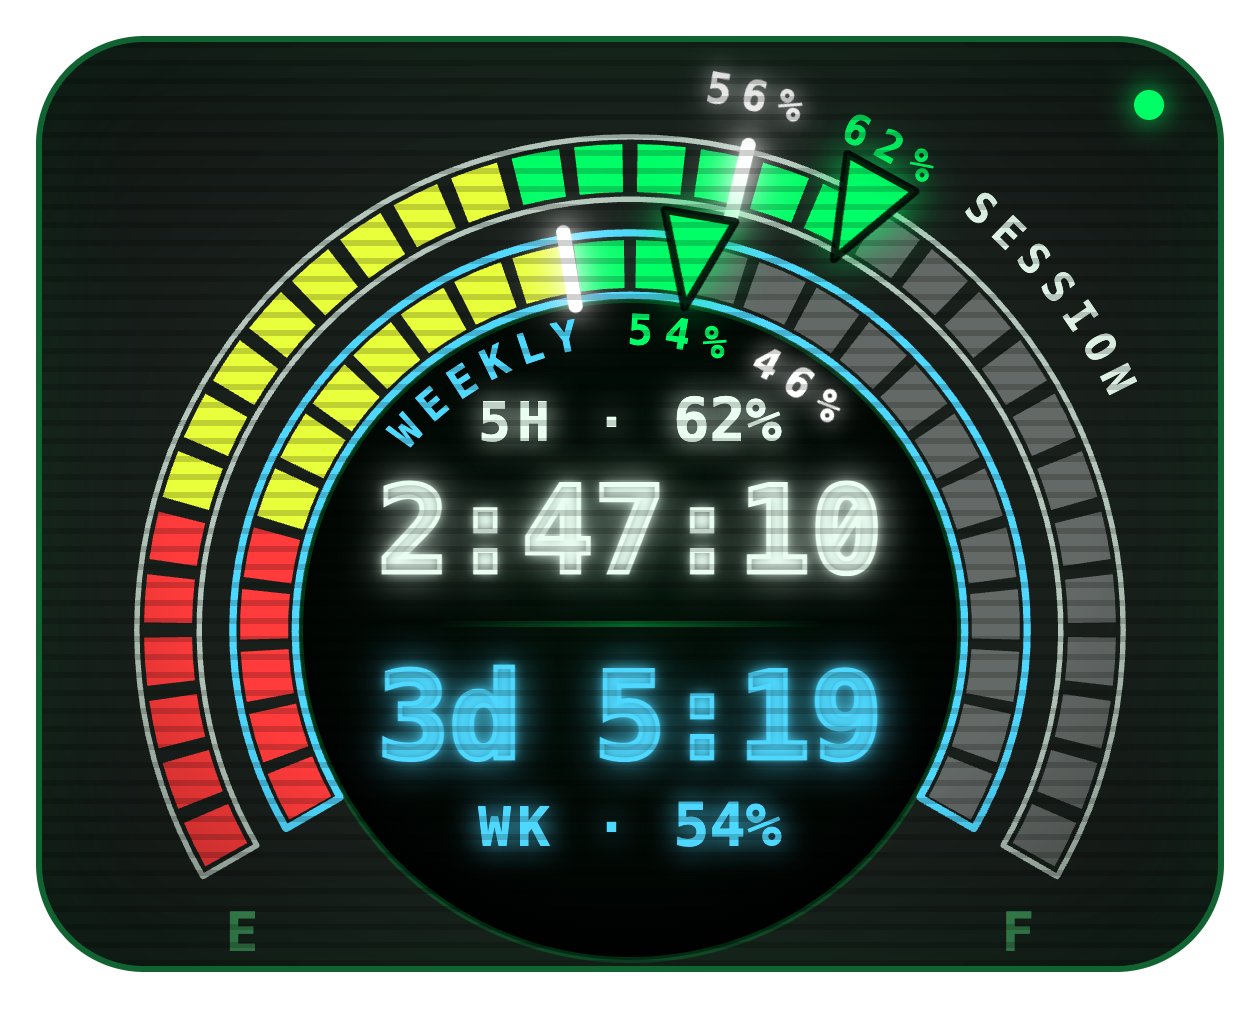
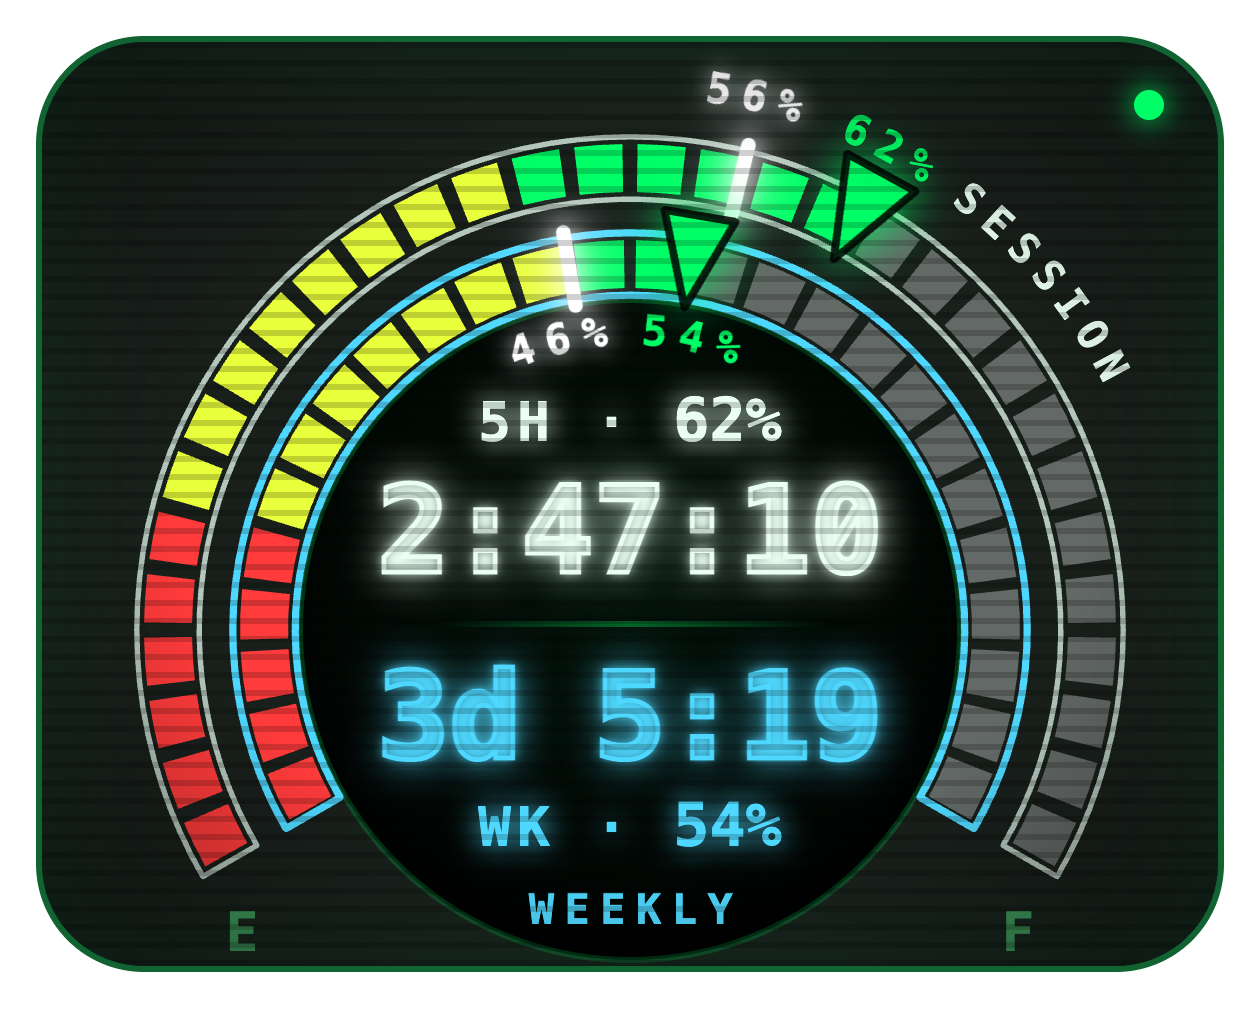
Put each ring's time-left % at its tick and keep labels from colliding

Changed region(s): [[0.3095, 0.3039, 0.681, 0.4559], [0.7429, 0.1824, 0.8976, 0.3951], [0.4024, 0.851, 0.5881, 0.9118]]

diff --git a/index.html b/index.html
@@ -69,7 +69,8 @@
       <circle cx="92" cy="92" r="55" fill="url(#faceGrad)" stroke="rgba(0,255,102,.2)" stroke-width="1"/>
       <g id="segsS"></g><g id="segsW"></g><g id="ends"></g>
       <g class="marker" id="markS"></g><g class="marker" id="markW"></g>
-      <g class="needle" id="tagS"></g><g class="needle" id="tagW"></g>
+      <g class="needle" id="nameS"></g><g class="needle" id="nameW"></g>
+      <g class="needle" id="numS" style="visibility: hidden"></g><g class="needle" id="numW" style="visibility: hidden"></g>
       <g class="needle" id="timeS" style="visibility: hidden"></g><g class="needle" id="timeW" style="visibility: hidden"></g><g class="needle" id="needleW"></g><g class="needle" id="needleS"></g>
     </svg>
     <div class="face">
@@ -103,35 +104,47 @@
   };
   const deg = (pct) => START + SWEEP * pct / 100;
   // Curved text along each ring, on one circle per ring (outside the session band, inside the weekly one):
-  // "SESSION 62%" with the number centred on the arrow, plus the white tick's time-left % at the tick.
-  // Everything stays inside the ring's zone (degrees): WEEKLY on the top arc, clear of the countdowns;
-  // SESSION almost all the way round, short of the E / F letters. `r` and `cw` (char width) are set when drawn.
+  // the % left at the arrow, the white tick's time-left % at the tick, and the ring's name wherever it fits
+  // nearest the arrow's number. Everything stays inside the ring's zone (degrees): WEEKLY on the top arc,
+  // clear of the countdowns; SESSION almost all the way round, short of the E / F letters.
+  // `r` and `cw` (char width) are set when the text is drawn.
   const TAGS = { S: { name: "SESSION", zone: [158, 382] }, W: { name: "WEEKLY", zone: [219, 321] } };
   const clamp = (v, lo, hi) => Math.min(hi, Math.max(lo, v));
   function placeTags(k, arrowDeg, tickDeg, leftPct, timePct) {
-    const { name, zone: [z0, z1], r, cw } = TAGS[k], span = (chars) => chars * cw / r * 180 / Math.PI;
+    const { name, zone: [z0, z1], r, cw } = TAGS[k], span = (chars) => chars * cw / r * 180 / Math.PI, gap = span(.6);
     const num = `${Math.round(leftPct)}%`, time = `${Math.round(timePct)}%`;
-    const wNum = span(num.length), wAll = span(name.length + 1 + num.length), wTime = span(time.length), gap = span(.5);
-    // Put the name on the side away from the tick, unless it would run out of room there.
-    let nameFirst = tickDeg >= arrowDeg;
-    if (nameFirst && arrowDeg + wNum / 2 - wAll < z0) nameFirst = false;
-    else if (!nameFirst && arrowDeg - wNum / 2 + wAll > z1) nameFirst = true;
-    const at = clamp(nameFirst ? arrowDeg - (wAll - wNum) / 2 : arrowDeg + (wAll - wNum) / 2, z0 + wAll / 2, z1 - wAll / 2);
-    const [a, b] = $("tagText" + k).firstChild.children;
-    [a.textContent, b.textContent] = nameFirst ? [name, " " + num] : [num + " ", name];
-    [a.style.fill, b.style.fill] = nameFirst ? [RINGS[k].color, levelColor(leftPct / 100)] : [levelColor(leftPct / 100), RINGS[k].color];
-    $("tag" + k).style.transform = `rotate(${at}deg)`;
-    // Time-left % at the tick, nudged clear of the label if they'd overlap.
-    let t = clamp(tickDeg, z0 + wTime / 2, z1 - wTime / 2);
-    const lo = at - wAll / 2, hi = at + wAll / 2;
-    if (t + wTime / 2 + gap > lo && t - wTime / 2 - gap < hi) {
-      const right = hi + gap + wTime / 2, left = lo - gap - wTime / 2;
-      const fitsRight = right <= z1 - wTime / 2, fitsLeft = left >= z0 + wTime / 2;
-      t = (t >= at && fitsRight) || !fitsLeft ? right : left;
+    const wNum = span(num.length), wTime = span(time.length), wName = span(name.length);
+    let n = clamp(arrowDeg, z0 + wNum / 2, z1 - wNum / 2), t = clamp(tickDeg, z0 + wTime / 2, z1 - wTime / 2);
+    // Numbers too close: spread them apart around their midpoint, then shift both back inside the zone.
+    const sep = (wNum + wTime) / 2 + gap;
+    if (Math.abs(n - t) < sep) {
+      const mid = (n + t) / 2, dir = n <= t ? 1 : -1;
+      n = mid - dir * sep / 2; t = mid + dir * sep / 2;
+      const lo = Math.min(n - wNum / 2, t - wTime / 2), hi = Math.max(n + wNum / 2, t + wTime / 2);
+      const shift = lo < z0 ? z0 - lo : hi > z1 ? z1 - hi : 0;
+      n += shift; t += shift;
     }
-    $("timeText" + k).firstChild.textContent = time;
-    $("time" + k).style.transform = `rotate(${t}deg)`;
-    $("time" + k).style.visibility = "visible";
+    // Name: in the free stretch of the zone that lets it sit closest to the arrow's number. If none fits,
+    // WEEKLY drops to the bottom of the dial (under the WK caption); SESSION is just hidden.
+    const taken = [[n - wNum / 2, n + wNum / 2], [t - wTime / 2, t + wTime / 2]].sort((a, b) => a[0] - b[0]);
+    const free = [[z0, taken[0][0] - gap], [taken[0][1] + gap, taken[1][0] - gap], [taken[1][1] + gap, z1]];
+    let best = null;
+    for (const [lo, hi] of free) {
+      if (hi - lo < wName) continue;
+      const c = clamp(n, lo + wName / 2, hi - wName / 2);
+      if (best === null || Math.abs(c - n) < Math.abs(best - n)) best = c;
+    }
+    const set = (id, text, at, fill) => {
+      const tp = $(id + "Text" + k).firstChild;
+      if (tp.textContent !== text) tp.textContent = text;
+      if (fill) tp.style.fill = fill;
+      if (at !== null) $(id + k).style.transform = `rotate(${at}deg)`;
+      $(id + k).style.visibility = at === null ? "hidden" : "visible";
+    };
+    set("num", num, n, levelColor(leftPct / 100));
+    set("time", time, t);
+    set("name", name, best);
+    if (k === "W") $("nameWBottom").style.visibility = best === null ? "visible" : "hidden";
   }
   // Fuel-gauge colouring by position: red low end, yellow middle, green high.
   const levelColor = (f) => f < .2 ? "var(--bad)" : f < .45 ? "var(--warn)" : "var(--ok)";
@@ -167,16 +180,17 @@
     // Curved ring text (see placeTags), drawn around 0° in groups that placeTags rotates into place.
     for (const [k, r] of [["S", RINGS.S.arrow[1] + 2], ["W", RINGS.W.r - RINGS.W.w / 2 - 9.5]]) {
       const [x0, y0] = pt(r, -70), [x1, y1] = pt(r, 70), { name } = TAGS[k];
-      make("path", { id: "lbl" + k, d: `M${x0},${y0} A${r},${r} 0 0 1 ${x1},${y1}`, fill: "none" }, $("tag" + k));
-      const t = make("text", { id: "tagText" + k, class: "ringlabel", fill: RINGS[k].color, "text-anchor": "middle" }, $("tag" + k));
-      const tp = make("textPath", { href: "#lbl" + k, startOffset: "50%" }, t);
-      make("tspan", {}, tp).textContent = name;
-      make("tspan", {}, tp);
-      const tt = make("text", { id: "timeText" + k, class: "ringlabel timelabel", "text-anchor": "middle" }, $("time" + k));
-      make("textPath", { href: "#lbl" + k, startOffset: "50%" }, tt);
-      Object.assign(TAGS[k], { r, cw: t.getComputedTextLength() / name.length });
-      $("tag" + k).style.transform = `rotate(${TAGS[k].zone[0] + TAGS[k].cw * name.length / r * 90 / Math.PI}deg)`;
+      make("path", { id: "lbl" + k, d: `M${x0},${y0} A${r},${r} 0 0 1 ${x1},${y1}`, fill: "none" }, $("name" + k));
+      for (const [id, cls] of [["name", "ringlabel"], ["num", "ringlabel"], ["time", "ringlabel timelabel"]]) {
+        const t = make("text", { id: id + "Text" + k, class: cls, fill: RINGS[k].color, "text-anchor": "middle" }, $(id + k));
+        make("textPath", { href: "#lbl" + k, startOffset: "50%" }, t);
+      }
+      $("nameText" + k).firstChild.textContent = name;
+      Object.assign(TAGS[k], { r, cw: $("nameText" + k).getComputedTextLength() / name.length });
+      $("name" + k).style.transform = `rotate(${TAGS[k].zone[0] + TAGS[k].cw * name.length / r * 90 / Math.PI}deg)`;
     }
+    make("text", { id: "nameWBottom", x: CX + 1, y: CY + 49, class: "ringlabel", fill: RINGS.W.color, "text-anchor": "middle",
+                   style: "visibility: hidden" }, $("ends")).textContent = TAGS.W.name;
     // E / F at the ends of the sweep, like a fuel gauge.
     const [ex, ey] = pt(RINGS.S.r, START), [fx, fy] = pt(RINGS.S.r, START + SWEEP);
     make("text", { x: ex + 2, y: ey + 15, "text-anchor": "middle", class: "end" }, $("ends")).textContent = "E";
@@ -274,7 +288,7 @@
       $("pct").textContent = Math.round(100 - (s?.utilization ?? 0)) + "%";
       $("count").textContent = "-:--:--";
       $("markS").style.visibility = "hidden";
-      $("timeS").style.visibility = "hidden";
+      $("timeS").style.visibility = $("numS").style.visibility = "hidden";
       tip.push("5H SESSION: no active session");
     }
 
